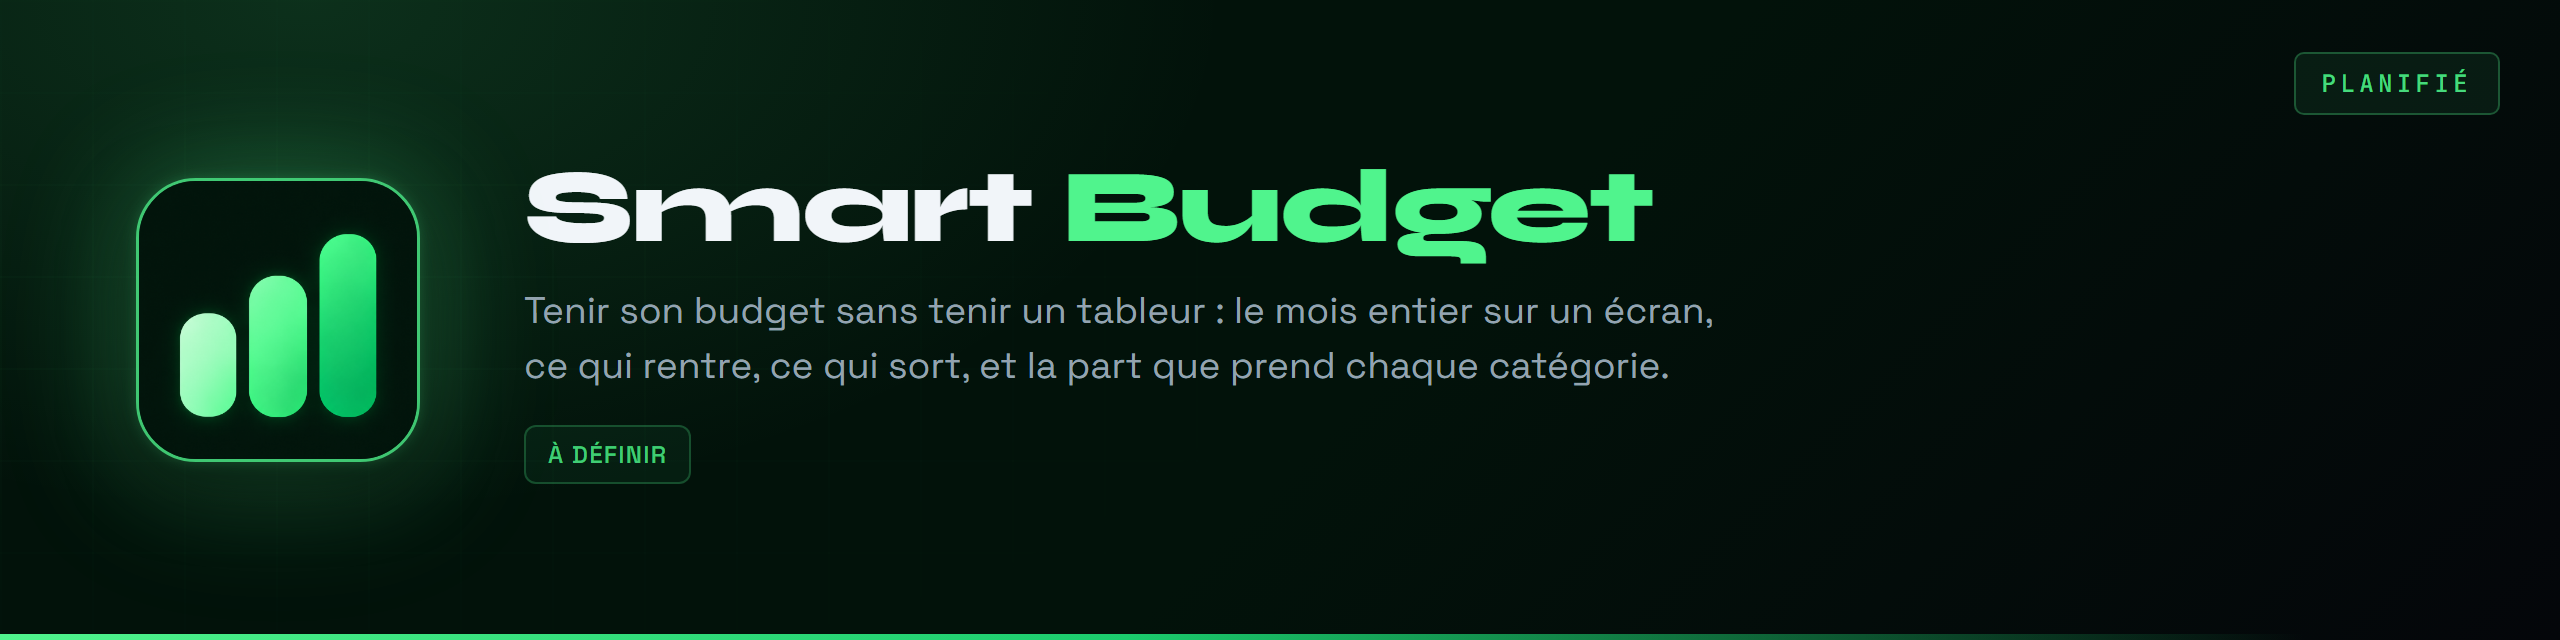
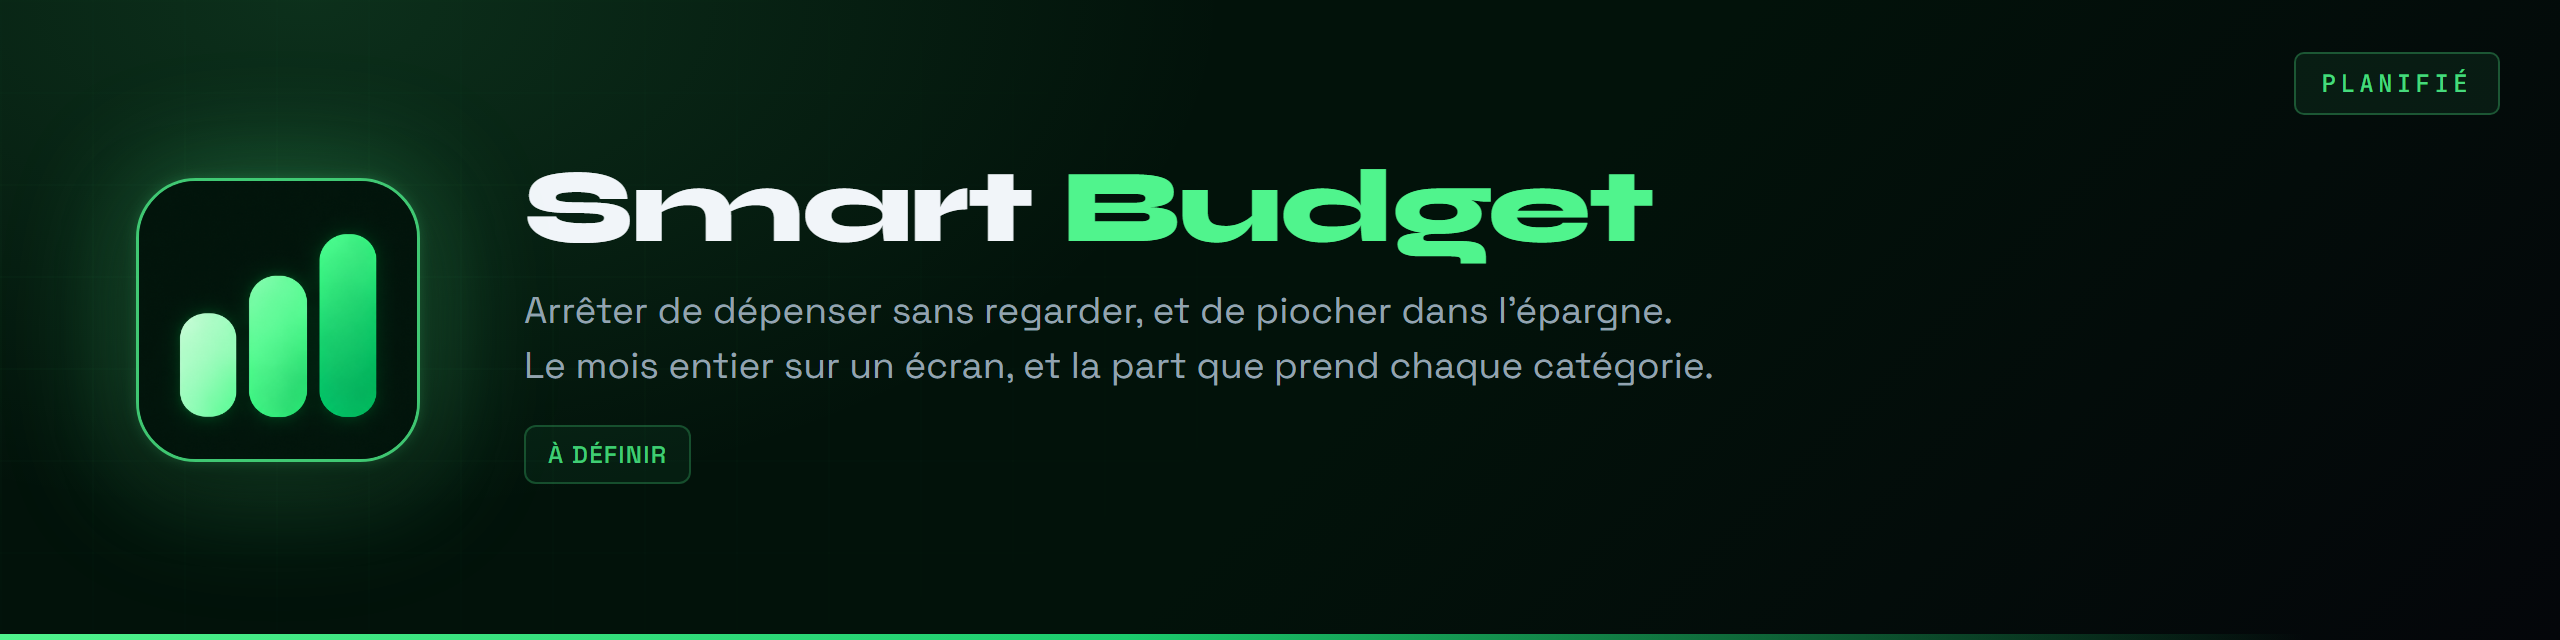
docs: Smart Budget nomme la vraie contrainte, l'épargne entamée
Le tableur n'était pas le problème : il n'y avait aucun suivi du tout,
et l'épargne servait à finir le mois. C'est cette contrainte-là que la
carte nomme maintenant, comme les autres projets nomment la leur.

Claude-Session: https://claude.ai/code/session_011hwWL8vXtMznbtwVp8pGZK

Changed region(s): [[0.1875, 0.4688, 0.6875, 0.5312], [0.1875, 0.5625, 0.6875, 0.5938]]

diff --git a/README.md b/README.md
@@ -39,7 +39,7 @@ Je m'intéresse aux postes en **cybersécurité**, **infrastructure**, **sécuri
 <a href="https://github.com/Cybertrist/KyrlCut"><img src="docs/projets/kyrlcut.png" alt="KyrlCut, prise de rendez-vous pour un salon de coiffure, dépôt privé" width="49.8%"></a><a href="https://github.com/Cybertrist/BodyCount"><img src="docs/projets/bodycount.png" alt="BodyCount, suivi de séances de sport" width="49.8%"></a>
 <a href="https://github.com/Cybertrist/GoMuscu"><img src="docs/projets/gomuscu.png" alt="GoMuscu, bot Discord qui suit les séances de la salle, tient les comptes et relance ceux qui sèchent" width="49.8%"></a><a href="https://github.com/Cybertrist/Basicfit-Coach"><img src="docs/projets/bf-coach.png" alt="Basic-Fit Coach, bot Discord privé qui lit l'export de compte Basic-Fit, heatmap, séries et horaires, et sept calculs de salle" width="49.8%"></a>
 <a href="https://github.com/Cybertrist/Basicfit-Securite"><img src="docs/projets/bf-securite.png" alt="Basic-Fit Sécurité, bot Discord privé de modération, douze commandes et un rôle de mute défini depuis Discord" width="49.8%"></a><a href="https://github.com/Cybertrist/Basicfit-Manager"><img src="docs/projets/bf-manager.png" alt="Basic-Fit Manager, bot Discord privé d'accueil et de billetterie, tickets ouverts au menu, rôle donné à l'arrivée, guide en message privé" width="49.8%"></a>
-<img src="docs/projets/cybersas.png" alt="CyberSas, réseau, en cours. Reverse proxy et VPN auto-hébergés : un point d'entrée unique, terminaison TLS, et un tunnel privé pour le reste" width="49.8%"><img src="docs/projets/smartbudget.png" alt="Smart Budget, finances, planifié. Tenir son budget sans tenir un tableur : le mois entier sur un écran, ce qui rentre, ce qui sort, et la part que prend chaque catégorie" width="49.8%">
+<img src="docs/projets/cybersas.png" alt="CyberSas, réseau, en cours. Reverse proxy et VPN auto-hébergés : un point d'entrée unique, terminaison TLS, et un tunnel privé pour le reste" width="49.8%"><img src="docs/projets/smartbudget.png" alt="Smart Budget, finances, planifié. Arrêter de dépenser sans regarder, et de piocher dans l'épargne. Le mois entier sur un écran, et la part que prend chaque catégorie" width="49.8%">
 </p>
 
 <img src="docs/notes/prive.png" alt="Dépôts privés. KyrlCut est un livrable client, son code appartient à celui qui l'a commandé. Les trois bots Basic-Fit servent un vrai serveur Discord et lisent des exports de compte : identifiants de salons et données personnelles n'ont rien à faire en public. Leurs cartes mènent bien au dépôt, mais GitHub répondra 404 à qui n'y a pas accès. Chaque bannière porte sa catégorie, et son état quand le dépôt n'existe pas encore." width="100%">
@@ -48,7 +48,7 @@ Je m'intéresse aux postes en **cybersécurité**, **infrastructure**, **sécuri
 
 <img src="docs/chantier/cybersas.png" alt="CyberSas, reverse proxy et VPN auto-hébergés, en cours. Exposer ce qui doit l'être et rien d'autre : un point d'entrée unique, terminaison TLS, et un tunnel privé pour le reste. Nginx, WireGuard, Debian, auto-hébergé." width="100%">
 
-<img src="docs/chantier/smartbudget.png" alt="Smart Budget, planifié. Tenir son budget sans tenir un tableur : le mois entier sur un écran, ce qui rentre, ce qui sort, et la part que prend chaque catégorie." width="100%">
+<img src="docs/chantier/smartbudget.png" alt="Smart Budget, planifié. Arrêter de dépenser sans regarder, et de piocher dans l'épargne. Le mois entier sur un écran, et la part que prend chaque catégorie." width="100%">
 
 <a href="https://github.com/Cybertrist/BodyCount"><img src="docs/chantier/bodycount.png" alt="BodyCount, à finir. Le chiffrement de la base manque encore : SQLCipher et clé dérivée du Keystore. La biométrie verrouille l'interface, elle ne chiffre rien. Restent aussi l'export chiffré et les écrans de statistiques." width="100%"></a>
 
